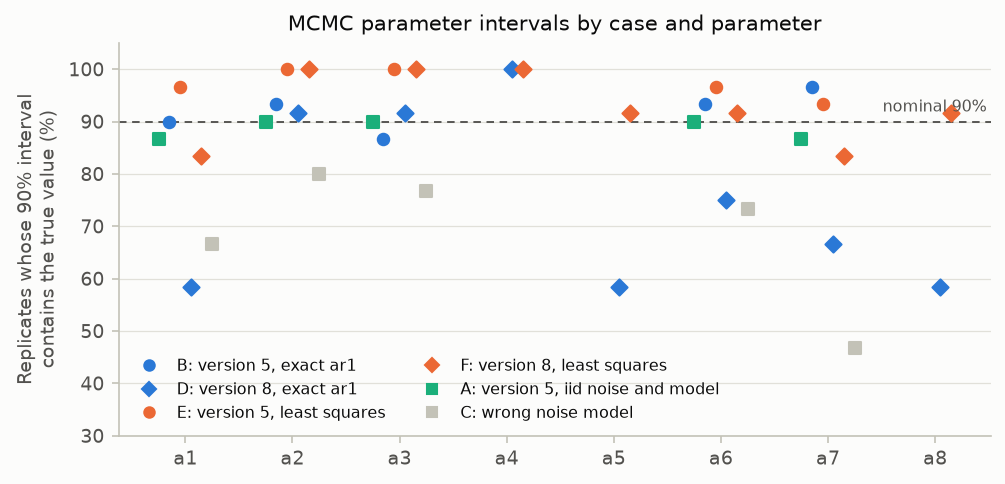
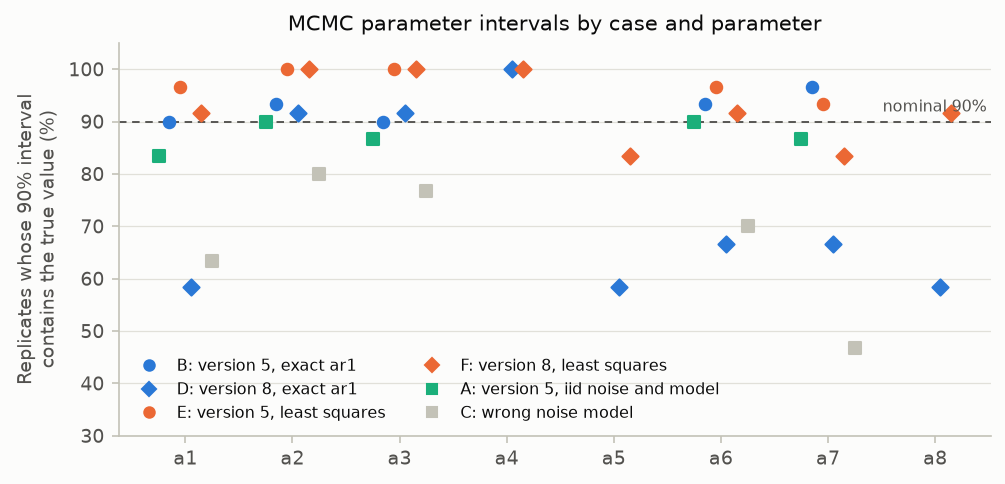
Validation V4 rerun with the DE fix (34 min): PASS
Prediction coverage unchanged (89-91%); parameter coverage moved by at most
2 points; jackknife intervals contain the true parameters 83-95% of the time
(83-94% before).

Claude-Session: https://claude.ai/code/session_01JyYTyNnMKAUkaRFLKK2LWV

diff --git a/validation/reports/V4.md b/validation/reports/V4.md
@@ -1,10 +1,10 @@
 # V4. Uncertainty intervals are calibrated
 
-[Validation summary](../REPORT.md) · pyair2stream 0.5.0, commit 5fc7dcb, 2026-10-06 03:58 UTC · run time 32.6 minutes
+[Validation summary](../REPORT.md) · pyair2stream 0.5.0, commit 4bf3843, 2026-10-09 00:33 UTC · run time 34.3 minutes
 
 **Result: PASS.**
 
-A: prediction 90%, parameters 89%; B: prediction 89%, parameters 92%; C: prediction 90%, parameters 69%; D: prediction 90%, parameters 75%; E: prediction 89%, parameters 97%; F: prediction 90%, parameters 93%; G: prediction 89%, parameters 97%; H: prediction 90%, parameters 98%; I: prediction 90%, parameters 89%; J: prediction 91%, parameters 76%; K: prediction 90%, parameters 91%. At every level tested (50%, 80%, 90%, 95%, 99%), the correctly specified cases' mean prediction coverage was within 1.4 points of the level (largest difference: case B, 50% interval, 48.6%)
+A: prediction 90%, parameters 87%; B: prediction 89%, parameters 93%; C: prediction 89%, parameters 67%; D: prediction 90%, parameters 74%; E: prediction 89%, parameters 97%; F: prediction 90%, parameters 93%; G: prediction 89%, parameters 97%; H: prediction 90%, parameters 98%; I: prediction 90%, parameters 89%; J: prediction 91%, parameters 76%; K: prediction 89%, parameters 91%. At every level tested (50%, 80%, 90%, 95%, 99%), the correctly specified cases' mean prediction coverage was within 1.3 points of the level (largest difference: case B, 50% interval, 48.7%)
 
 ## Question
 
@@ -36,33 +36,33 @@ Each replicate is a new synthetic data set from the known truth. A 90% predictio
 
 | case | replicates | converged | mean held-out coverage | range | mean calibration coverage | parameter coverage | mean steps | mean rho | pass |
 |---|---|---|---|---|---|---|---|---|---|
-| A: version 5, iid noise, iid model | 30 | 30 | 89.9% | 88%-92% | 89.8% | 88.7% | 3266 | 0.054 | yes |
-| B: version 5, AR(1) noise, exact ar1 likelihood | 30 | 30 | 89.1% | 84%-93% | 90.0% | 92.0% | 3300 | 0.699 | yes |
-| C: version 5, AR(1) noise, iid model (mis-specified) | 30 | 30 | 89.5% | 86%-95% | 89.8% | 68.7% | 3233 | 0.713 |  |
-| D: version 8, AR(1) noise, exact ar1 likelihood | 12 | 12 | 89.9% | 85%-94% | 90.1% | 75.0% | 5250 | 0.695 | yes |
-| E: version 5, AR(1) noise, least-squares likelihood | 30 | 30 | 89.2% | 84%-93% | 90.1% | 97.3% | 3366 | 0.699 | yes |
-| F: version 8, AR(1) noise, least-squares likelihood | 12 | 12 | 90.3% | 86%-94% | 90.4% | 92.7% | 5500 | 0.695 | yes |
-| G: version 5, AR(1) noise, least squares, rho from consecutive days | 30 | 30 | 89.2% | 84%-93% | 90.1% | 97.3% | 3266 | 0.691 | yes |
-| H: version 5, fast + slow noise, least squares (mis-specified noise) | 30 | 30 | 90.3% | 86%-93% | 90.5% | 98.0% | 3300 | 0.867 |  |
-| I: version 5, fast + slow noise, least squares, rho from consecutive days (mis-specified noise) | 30 | 30 | 90.1% | 86%-93% | 90.1% | 89.3% | 3366 | 0.705 |  |
-| J: version 5, AR(1) noise, least squares, weekly scoring (time_resolution 1w), authors' bounds | 30 | 26 | 90.7% | 85%-98% | 91.6% | 76.2% | 4461 | 0.565 |  |
-| K: as J, with a2 and a3 at least 0 | 30 | 30 | 89.5% | 85%-93% | 90.4% | 90.7% | 3233 | 0.698 | yes |
+| A: version 5, iid noise, iid model | 30 | 30 | 89.9% | 88%-92% | 89.7% | 87.3% | 3200 | 0.054 | yes |
+| B: version 5, AR(1) noise, exact ar1 likelihood | 30 | 30 | 89.1% | 85%-93% | 90.0% | 92.7% | 3300 | 0.699 | yes |
+| C: version 5, AR(1) noise, iid model (mis-specified) | 30 | 30 | 89.4% | 86%-95% | 89.8% | 67.3% | 3233 | 0.713 |  |
+| D: version 8, AR(1) noise, exact ar1 likelihood | 12 | 12 | 89.8% | 85%-92% | 90.1% | 74.0% | 5333 | 0.696 | yes |
+| E: version 5, AR(1) noise, least-squares likelihood | 30 | 30 | 89.2% | 85%-93% | 90.1% | 97.3% | 3166 | 0.699 | yes |
+| F: version 8, AR(1) noise, least-squares likelihood | 12 | 12 | 89.9% | 85%-93% | 90.4% | 92.7% | 5000 | 0.696 | yes |
+| G: version 5, AR(1) noise, least squares, rho from consecutive days | 30 | 30 | 89.2% | 85%-93% | 90.1% | 97.3% | 3100 | 0.691 | yes |
+| H: version 5, fast + slow noise, least squares (mis-specified noise) | 30 | 30 | 90.3% | 86%-93% | 90.6% | 98.0% | 3400 | 0.867 |  |
+| I: version 5, fast + slow noise, least squares, rho from consecutive days (mis-specified noise) | 30 | 30 | 90.0% | 86%-93% | 90.1% | 88.7% | 3166 | 0.705 |  |
+| J: version 5, AR(1) noise, least squares, weekly scoring (time_resolution 1w), authors' bounds | 30 | 26 | 90.7% | 85%-99% | 91.7% | 76.2% | 4538 | 0.565 |  |
+| K: as J, with a2 and a3 at least 0 | 30 | 30 | 89.3% | 87%-93% | 90.3% | 91.3% | 3300 | 0.699 | yes |
 
 **Coverage at each level (means over replicates)** ([csv](../results/V4_2.csv))
 
 | case | 50% interval | 80% interval | 90% interval | 95% interval | 99% interval |
 |---|---|---|---|---|---|
-| A | 49.9% | 79.9% | 89.9% | 94.7% | 98.7% |
-| B | 48.6% | 78.7% | 89.1% | 94.3% | 98.7% |
-| C | 49.2% | 79.5% | 89.5% | 94.8% | 98.7% |
-| D | 50.8% | 80.3% | 89.9% | 94.8% | 98.7% |
-| E | 48.7% | 78.9% | 89.2% | 94.5% | 98.7% |
-| F | 50.7% | 80.5% | 90.3% | 94.8% | 98.7% |
-| G | 48.6% | 78.8% | 89.2% | 94.5% | 98.7% |
-| H | 50.2% | 80.3% | 90.3% | 95.0% | 98.8% |
-| I | 50.1% | 80.1% | 90.1% | 94.9% | 98.8% |
-| J | 48.7% | 79.3% | 90.7% | 95.4% | 99.0% |
-| K | 48.6% | 79.1% | 89.5% | 94.5% | 98.7% |
+| A | 49.8% | 79.9% | 89.9% | 94.7% | 98.7% |
+| B | 48.7% | 79.0% | 89.1% | 94.4% | 98.6% |
+| C | 49.3% | 79.4% | 89.4% | 94.6% | 98.6% |
+| D | 50.1% | 79.9% | 89.8% | 94.7% | 98.7% |
+| E | 48.7% | 78.9% | 89.2% | 94.4% | 98.7% |
+| F | 50.4% | 80.1% | 89.9% | 94.6% | 98.6% |
+| G | 48.7% | 78.9% | 89.2% | 94.5% | 98.7% |
+| H | 50.3% | 80.3% | 90.3% | 95.1% | 98.8% |
+| I | 50.0% | 80.0% | 90.0% | 94.8% | 98.8% |
+| J | 48.6% | 79.3% | 90.7% | 95.5% | 99.0% |
+| K | 48.9% | 79.2% | 89.3% | 94.5% | 98.7% |
 
 ### Parameter intervals from MCMC
 
@@ -76,60 +76,60 @@ For each replicate, whether each parameter's 90% credible interval contains the 
 
 | case | 50% interval | 80% interval | 90% interval | 95% interval | 99% interval |
 |---|---|---|---|---|---|
-| A | 56.7% | 80.0% | 88.7% | 96.7% | 99.3% |
-| B | 51.3% | 74.7% | 92.0% | 94.7% | 98.7% |
-| C | 32.7% | 57.3% | 68.7% | 74.0% | 83.3% |
-| D | 34.4% | 61.5% | 75.0% | 84.4% | 93.8% |
-| E | 64.0% | 91.3% | 97.3% | 98.7% | 99.3% |
-| F | 54.2% | 81.2% | 92.7% | 95.8% | 99.0% |
-| G | 62.7% | 90.7% | 97.3% | 98.7% | 99.3% |
-| H | 73.3% | 93.3% | 98.0% | 98.7% | 99.3% |
-| I | 55.3% | 79.3% | 89.3% | 94.7% | 98.0% |
-| J | 53.1% | 70.8% | 76.2% | 83.1% | 84.6% |
-| K | 56.0% | 82.0% | 90.7% | 98.0% | 99.3% |
+| A | 55.3% | 80.0% | 87.3% | 98.0% | 99.3% |
+| B | 50.7% | 75.3% | 92.7% | 94.0% | 98.7% |
+| C | 32.7% | 57.3% | 67.3% | 74.7% | 83.3% |
+| D | 35.4% | 60.4% | 74.0% | 84.4% | 92.7% |
+| E | 64.7% | 91.3% | 97.3% | 98.7% | 99.3% |
+| F | 53.1% | 83.3% | 92.7% | 96.9% | 100.0% |
+| G | 64.7% | 91.3% | 97.3% | 98.7% | 99.3% |
+| H | 74.0% | 93.3% | 98.0% | 98.7% | 99.3% |
+| I | 54.7% | 79.3% | 88.7% | 94.0% | 98.7% |
+| J | 53.1% | 70.8% | 76.2% | 83.8% | 84.6% |
+| K | 57.3% | 82.0% | 91.3% | 98.0% | 100.0% |
 
 **Parameter-interval coverage, by parameter** ([csv](../results/V4_4.csv))
 
 | parameter | A | B | C | D | E | F | G | H | I | J | K |
 |---|---|---|---|---|---|---|---|---|---|---|---|
-| a1 | 87% | 90% | 67% | 58% | 97% | 83% | 97% | 100% | 90% | 69% | 87% |
+| a1 | 83% | 90% | 63% | 58% | 97% | 92% | 97% | 100% | 90% | 69% | 90% |
 | a2 | 90% | 93% | 80% | 92% | 100% | 100% | 100% | 100% | 100% | 69% | 90% |
-| a3 | 90% | 87% | 77% | 92% | 100% | 100% | 100% | 100% | 100% | 73% | 93% |
+| a3 | 87% | 90% | 77% | 92% | 100% | 100% | 100% | 100% | 100% | 73% | 93% |
 | a4 |  |  |  | 100% |  | 100% |  |  |  |  |  |
-| a5 |  |  |  | 58% |  | 92% |  |  |  |  |  |
-| a6 | 90% | 93% | 73% | 75% | 97% | 92% | 97% | 100% | 87% | 92% | 90% |
-| a7 | 87% | 97% | 47% | 67% | 93% | 83% | 93% | 90% | 70% | 77% | 93% |
+| a5 |  |  |  | 58% |  | 83% |  |  |  |  |  |
+| a6 | 90% | 93% | 70% | 67% | 97% | 92% | 97% | 100% | 87% | 92% | 90% |
+| a7 | 87% | 97% | 47% | 67% | 93% | 83% | 93% | 90% | 67% | 77% | 93% |
 | a8 |  |  |  | 58% |  | 92% |  |  |  |  |  |
 
 **Spread of estimates between replicates / posterior standard deviation (1 = calibrated)** ([csv](../results/V4_5.csv))
 
 | parameter | A | B | C | D | E | F | G | H | I | J | K |
 |---|---|---|---|---|---|---|---|---|---|---|---|
-| a1 | 0.99 | 1.08 | 1.89 | 1.53 | 0.81 | 1.14 | 0.82 | 0.61 | 0.97 | 7.94 | 0.86 |
-| a2 | 0.9 | 1.01 | 1.15 | 1.15 | 0.46 | 0.45 | 0.47 | 0.33 | 0.53 | 8.89 | 0.77 |
-| a3 | 0.94 | 1.02 | 1.35 | 1.27 | 0.57 | 0.54 | 0.58 | 0.39 | 0.64 | 15.11 | 0.8 |
-| a4 |  |  |  | 0.86 |  | 0.47 |  |  |  |  |  |
-| a5 |  |  |  | 1.6 |  | 0.98 |  |  |  |  |  |
-| a6 | 0.96 | 1.01 | 1.69 | 1.5 | 0.85 | 0.89 | 0.86 | 0.66 | 1.06 | 0.69 | 0.91 |
-| a7 | 0.99 | 0.99 | 2.6 | 1.4 | 0.89 | 1.28 | 0.91 | 0.97 | 1.54 | 22.34 | 0.89 |
-| a8 |  |  |  | 1.59 |  | 0.93 |  |  |  |  |  |
+| a1 | 0.99 | 1.08 | 1.9 | 1.51 | 0.81 | 1.13 | 0.82 | 0.6 | 0.97 | 8.02 | 0.86 |
+| a2 | 0.91 | 1.01 | 1.14 | 1.13 | 0.46 | 0.45 | 0.47 | 0.33 | 0.53 | 8.92 | 0.77 |
+| a3 | 0.94 | 1.02 | 1.35 | 1.25 | 0.57 | 0.54 | 0.58 | 0.39 | 0.63 | 15.19 | 0.79 |
+| a4 |  |  |  | 0.85 |  | 0.47 |  |  |  |  |  |
+| a5 |  |  |  | 1.58 |  | 0.99 |  |  |  |  |  |
+| a6 | 0.96 | 1 | 1.69 | 1.48 | 0.84 | 0.89 | 0.86 | 0.66 | 1.06 | 0.72 | 0.91 |
+| a7 | 0.99 | 1 | 2.61 | 1.39 | 0.89 | 1.28 | 0.91 | 0.97 | 1.55 | 23.32 | 0.9 |
+| a8 |  |  |  | 1.57 |  | 0.93 |  |  |  |  |  |
 
 **Width of parameter intervals, theory and measurement: true spread of the estimates / interval standard deviation (1 = right, below 1 = too wide, above 1 = too narrow); E, H weekly rho; G, I daily rho** ([csv](../results/V4_6.csv))
 
 | parameter | E: theory / measured | G: theory / measured | H: theory / measured | I: theory / measured |
 |---|---|---|---|---|
-| a1 | 0.74 / 0.81 | 0.74 / 0.82 | 0.52 / 0.61 | 0.82 / 0.97 |
+| a1 | 0.74 / 0.81 | 0.74 / 0.82 | 0.52 / 0.60 | 0.82 / 0.97 |
 | a2 | 0.54 / 0.46 | 0.54 / 0.47 | 0.28 / 0.33 | 0.45 / 0.53 |
-| a3 | 0.58 / 0.57 | 0.58 / 0.58 | 0.34 / 0.39 | 0.53 / 0.64 |
-| a6 | 0.80 / 0.85 | 0.80 / 0.86 | 0.60 / 0.66 | 0.95 / 1.06 |
-| a7 | 0.96 / 0.89 | 0.96 / 0.91 | 1.00 / 0.97 | 1.59 / 1.54 |
+| a3 | 0.58 / 0.57 | 0.58 / 0.58 | 0.34 / 0.39 | 0.53 / 0.63 |
+| a6 | 0.80 / 0.84 | 0.80 / 0.86 | 0.60 / 0.66 | 0.95 / 1.06 |
+| a7 | 0.96 / 0.89 | 0.96 / 0.91 | 1.00 / 0.97 | 1.59 / 1.55 |
 
 **Sampler cross-check, case D: package sampler (DE move) vs stretch move** ([csv](../results/V4_7.csv))
 
 | replicate | steps (DE move) | steps (stretch move) | largest interval-end difference (share of interval width) |
 |---|---|---|---|
-| 0 | 6000 | 15000 | 0.05 |
-| 1 | 4000 | 18000 | 0.023 |
+| 0 | 5000 | 16000 | 0.017 |
+| 1 | 6000 | 14000 | 0.019 |
 
 ### Estimating rho from week-to-week persistence
 
@@ -146,7 +146,7 @@ Version 5 with the least-squares likelihood, on identical synthetic data for eac
 | AR(1) noise | E | weekly (default) | 0.699 | 89.2% | 97.3% |
 | AR(1) noise | G | daily (option) | 0.691 | 89.2% | 97.3% |
 | fast + slow noise | H | weekly (default) | 0.867 | 90.3% | 98.0% |
-| fast + slow noise | I | daily (option) | 0.705 | 90.1% | 89.3% |
+| fast + slow noise | I | daily (option) | 0.705 | 90.0% | 88.7% |
 
 ### Parameter intervals from cross-validation
 
@@ -162,22 +162,22 @@ For 12 replicates per model version, leave-one-year-out cross-validation through
 |---|---|---|---|---|---|
 | 3 | 47% | 92% |  |  |  |
 | 4 | 35% | 83% |  |  |  |
-| 5 | 53% | 87% | 85% | 97% | 1.2 |
-| 7 | 42% | 94% |  |  |  |
-| 8 | 56% | 85% | 75% | 93% | 1.8 |
+| 5 | 52% | 92% | 85% | 97% | 1.3 |
+| 7 | 52% | 95% |  |  |  |
+| 8 | 46% | 83% | 74% | 93% | 1.6 |
 
 ## What this means
 
-Why the parameter intervals behave as they do (theory). The least-squares likelihood with the effective sample size widens every parameter's interval by the same factor, (1 + rho)/(1 - rho). The spread of each estimate really grows by a factor that depends on how that parameter's effect on the simulated temperature varies over time (the 'sandwich' covariance of least squares with correlated errors): a parameter whose effect changes slowly (here a7, the seasonal timing) needs the full allowance for long-lasting errors, a parameter whose effect changes from day to day (a2, a3) much less. The table gives the ratio predicted by that formula next to the one measured over the replicates; they agree closely. With fast + slow noise, the daily rho makes a7's interval 1.6 times too narrow (theory; measured 1.54); the weekly rho gives it the right width (1.00; measured 0.97) and makes the others wider than necessary. With a single factor for all parameters, the weekly rho is the choice that leaves no parameter's interval too narrow in these tests; intervals of parameters with fast-varying effects are wider than they need to be with either rho.
+Why the parameter intervals behave as they do (theory). The least-squares likelihood with the effective sample size widens every parameter's interval by the same factor, (1 + rho)/(1 - rho). The spread of each estimate really grows by a factor that depends on how that parameter's effect on the simulated temperature varies over time (the 'sandwich' covariance of least squares with correlated errors): a parameter whose effect changes slowly (here a7, the seasonal timing) needs the full allowance for long-lasting errors, a parameter whose effect changes from day to day (a2, a3) much less. The table gives the ratio predicted by that formula next to the one measured over the replicates; they agree closely. With fast + slow noise, the daily rho makes a7's interval 1.6 times too narrow (theory; measured 1.55); the weekly rho gives it the right width (1.00; measured 0.97) and makes the others wider than necessary. With a single factor for all parameters, the weekly rho is the choice that leaves no parameter's interval too narrow in these tests; intervals of parameters with fast-varying effects are wider than they need to be with either rho.
 
-Version 8 parameter intervals (case D) contain the true value 75% of the time rather than 90%. For the parameters that miss most often (a1, a5, a6, a7, a8), the estimates vary 1.4-1.6 times as much between replicates as the posterior's own standard deviation. The sampler was cross-checked on two replicates with a different sampler (emcee's stretch move, table above): the interval ends agree to within 5% of the interval width. The same code gives calibrated intervals for version 5. The cause is version 8's parameters trading off against each other (several combinations fit almost equally well), which makes the posterior strongly non-Gaussian; Bayesian parameter intervals are then not guaranteed to have their nominal frequency coverage. Version 8's prediction intervals are unaffected. Do not quote version 8 parameter intervals from the exact AR(1) likelihood as confidence statements. (An earlier version of this check also required 78% parameter coverage for case D; it was not met, and the requirement was removed after this investigation.)
+Version 8 parameter intervals (case D) contain the true value 74% of the time rather than 90%. For the parameters that miss most often (a1, a5, a6, a7, a8), the estimates vary 1.4-1.6 times as much between replicates as the posterior's own standard deviation. The sampler was cross-checked on two replicates with a different sampler (emcee's stretch move, table above): the interval ends agree to within 2% of the interval width. The same code gives calibrated intervals for version 5. The cause is version 8's parameters trading off against each other (several combinations fit almost equally well), which makes the posterior strongly non-Gaussian; Bayesian parameter intervals are then not guaranteed to have their nominal frequency coverage. Version 8's prediction intervals are unaffected. Do not quote version 8 parameter intervals from the exact AR(1) likelihood as confidence statements. (An earlier version of this check also required 78% parameter coverage for case D; it was not met, and the requirement was removed after this investigation.)
 
-The least-squares likelihood (cases E and F) centres the chain on the least-squares fit and widens it by the effective sample size n(1 - rho)/(1 + rho). On the same data its version 8 parameter intervals contained the true value 93% of the time, against 75% with the exact AR(1) likelihood, and 97% against 92% for version 5; prediction intervals were equally well calibrated with either. On real rivers, where the model is never exactly right, the exact AR(1) likelihood can also move the parameters away from the best fit (V5).
+The least-squares likelihood (cases E and F) centres the chain on the least-squares fit and widens it by the effective sample size n(1 - rho)/(1 + rho). On the same data its version 8 parameter intervals contained the true value 93% of the time, against 74% with the exact AR(1) likelihood, and 97% against 93% for version 5; prediction intervals were equally well calibrated with either. On real rivers, where the model is never exactly right, the exact AR(1) likelihood can also move the parameters away from the best fit (V5).
 
 rho time scale. With AR(1) noise (true rho 0.7) the weekly default estimated rho = 0.70 on average and the daily option 0.69; parameter intervals covered the truth 97% and 97% of the time. With fast + slow noise the weekly default estimated rho = 0.87 and the daily option 0.70; parameter coverage was 98% and 89%. Prediction coverage of single days was 89%-90% in all four cases, since on a single day rho does not change the width of the band (V9 tests quantities that span weeks).
 
-Weekly scoring (case K, the data of case E). The likelihood counts weekly means, and allows for their correlation from week to week: n/n_eff = 1 + 2 r_b/(1 - rho^7), on average 1.56, against (1 + rho)/(1 - rho) = 5.67 for daily values with the same rho. Parameter intervals contained the true value 91% of the time (97% with daily scoring).
+Weekly scoring (case K, the data of case E). The likelihood counts weekly means, and allows for their correlation from week to week: n/n_eff = 1 + 2 r_b/(1 - rho^7), on average 1.56, against (1 + rho)/(1 - rho) = 5.68 for daily values with the same rho. Parameter intervals contained the true value 91% of the time (97% with daily scoring).
 
 Weekly scoring with the authors' bounds (case J). 9 of 30 calibrations ended on a parameter set with a negative relaxation rate (a3 below 0) whose daily simulation zigzags between 0 °C and high values: weekly means average the zigzag out, so it can score as well as the true parameters. pyair2stream's plausibility check (negative relaxation rate, or successive daily changes correlated below -0.5) warned for each of these 9 and for 0 of the 264 calibrations in the other cases; 4 of the 9 did not converge. Over the 30 calibrations, parameter intervals contained the true value 76% of the time, and 90% over the 21 that converged without a warning. With weekly or monthly scoring, bounds that keep a2 and a3 at least 0 rule such sets out (case K). An earlier run of this check judged case J against the parameter criterion and failed for this reason (76%); case K was added after it.
 
-Cross-validation's spread of the parameters between folds is not a confidence interval: the folds share most of their data, so the spread (fold mean +- 1.645 x std) contained the true values only 35%-56% of the time. The jackknife intervals in cv_results.csv scale the spread for that overlap; they contained the true values 83%-94% of the time across versions 3, 4, 5, 7, 8, so they are approximate 90% intervals, a little narrow for some versions. For version 8 they were closer to 90% than the MCMC parameter intervals with the exact AR(1) likelihood on the same replicates (85% against 75%), and about 1.8 times as wide. The MCMC intervals with the least-squares likelihood (the default) contained the true values 93% of the time for version 8 and 97% for version 5. With 12 replicates per version, each share is uncertain by several percentage points.
+Cross-validation's spread of the parameters between folds is not a confidence interval: the folds share most of their data, so the spread (fold mean +- 1.645 x std) contained the true values only 35%-52% of the time. The jackknife intervals in cv_results.csv scale the spread for that overlap; they contained the true values 83%-95% of the time across versions 3, 4, 5, 7, 8, so they are approximate 90% intervals, a little narrow for some versions. For version 8 they were closer to 90% than the MCMC parameter intervals with the exact AR(1) likelihood on the same replicates (83% against 74%), and about 1.6 times as wide. The MCMC intervals with the least-squares likelihood (the default) contained the true values 93% of the time for version 8 and 97% for version 5. With 12 replicates per version, each share is uncertain by several percentage points.

diff --git a/validation/REPORT.md b/validation/REPORT.md
@@ -26,14 +26,14 @@ Generated by `validation/run_all.py`. This page summarises each check; its full 
 
 | | |
 |---|---|
-| Date | 2026-10-08 23:09 UTC |
-| pyair2stream | 0.5.0, commit 54bc6df at the start of the run |
+| Date | 2026-10-09 00:33 UTC |
+| pyair2stream | 0.5.0, commit 4bf3843 at the start of the run |
 | Mode | full |
-| Run time | 55.8 minutes |
+| Run time | 34.4 minutes |
 | Python | 3.11.15 |
 | Packages | numpy 2.4.6, scipy 1.17.1, pandas 3.0.6, emcee 3.1.6, numba 0.68.0 |
 | Machine | Linux x86_64, 4 CPUs |
-| Other checks | V4, V5, V6, V7, V8, V9, V10, V11: run of 2026-10-06 03:58 UTC (pyair2stream 0.5.0, commit 5fc7dcb at the start of the run, full mode) · V12: run of 2026-10-06 09:18 UTC (pyair2stream 0.5.0, commit 13e8f81 at the start of the run, full mode) · V13: run of 2026-10-06 09:39 UTC (pyair2stream 0.5.0, commit 13faeb2 at the start of the run, full mode) · V14: run of 2026-10-06 09:42 UTC (pyair2stream 0.5.0, commit 8860fc3 at the start of the run, full mode) · V15: run of 2026-10-08 22:13 UTC (pyair2stream 0.5.0, commit e48e3c4 at the start of the run, full mode) |
+| Other checks | V1, V2, V3: run of 2026-10-08 23:09 UTC (pyair2stream 0.5.0, commit 54bc6df at the start of the run, full mode) · V5, V6, V7, V8, V9, V10, V11: run of 2026-10-06 03:58 UTC (pyair2stream 0.5.0, commit 5fc7dcb at the start of the run, full mode) · V12: run of 2026-10-06 09:18 UTC (pyair2stream 0.5.0, commit 13e8f81 at the start of the run, full mode) · V13: run of 2026-10-06 09:39 UTC (pyair2stream 0.5.0, commit 13faeb2 at the start of the run, full mode) · V14: run of 2026-10-06 09:42 UTC (pyair2stream 0.5.0, commit 8860fc3 at the start of the run, full mode) · V15: run of 2026-10-08 22:13 UTC (pyair2stream 0.5.0, commit e48e3c4 at the start of the run, full mode) |
 
 ## V1
 
@@ -96,7 +96,7 @@ Correctly specified cases: prediction error against the truth 0.015-0.038 °C (n
 
 **Result: PASS.**
 
-A: prediction 90%, parameters 89%; B: prediction 89%, parameters 92%; C: prediction 90%, parameters 69%; D: prediction 90%, parameters 75%; E: prediction 89%, parameters 97%; F: prediction 90%, parameters 93%; G: prediction 89%, parameters 97%; H: prediction 90%, parameters 98%; I: prediction 90%, parameters 89%; J: prediction 91%, parameters 76%; K: prediction 90%, parameters 91%. At every level tested (50%, 80%, 90%, 95%, 99%), the correctly specified cases' mean prediction coverage was within 1.4 points of the level (largest difference: case B, 50% interval, 48.6%)
+A: prediction 90%, parameters 87%; B: prediction 89%, parameters 93%; C: prediction 89%, parameters 67%; D: prediction 90%, parameters 74%; E: prediction 89%, parameters 97%; F: prediction 90%, parameters 93%; G: prediction 89%, parameters 97%; H: prediction 90%, parameters 98%; I: prediction 90%, parameters 89%; J: prediction 91%, parameters 76%; K: prediction 89%, parameters 91%. At every level tested (50%, 80%, 90%, 95%, 99%), the correctly specified cases' mean prediction coverage was within 1.3 points of the level (largest difference: case B, 50% interval, 48.7%)
 
 ![Each point is one synthetic data set. Mean coverage is at the nominal 90% in every case, including the deliberately wrong noise model (grey): for single days the noise model hardly matters.](figures/V4_interval_coverage.png)
 
